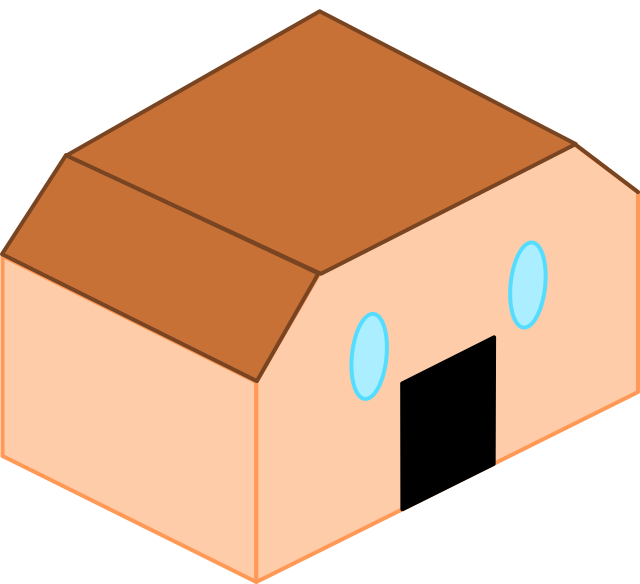
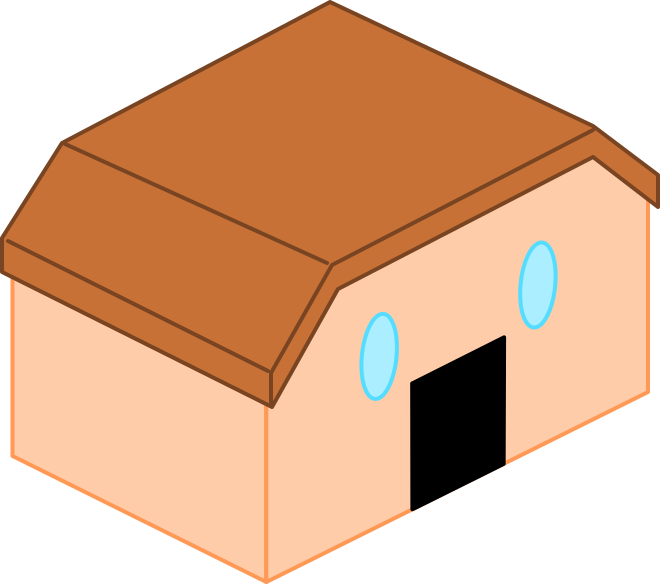
New house graphic.

diff --git a/src/iso_block.rb b/src/iso_block.rb
@@ -8,7 +8,8 @@ class IsoBlock
 
   TYPE_MAP = [
     [1, 1, 1, :block1, 0, 0, false],
-    [4, 6, 7, :house1, 0, -40, false],
+    [4, 6, 7, :house1, -10, -40, false],
+    [3, 3, 7, :house2, -10, -64, false],
     [3, 1, 3, :wall1, 0, 0, true],
     [1, 1, 15, :tree1, -128, 0, false]
   ].freeze
